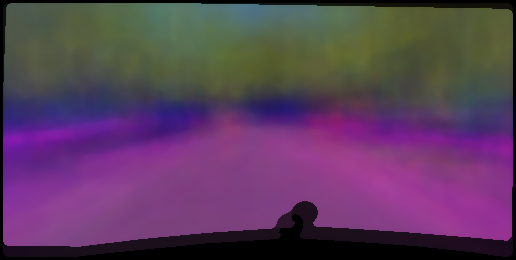
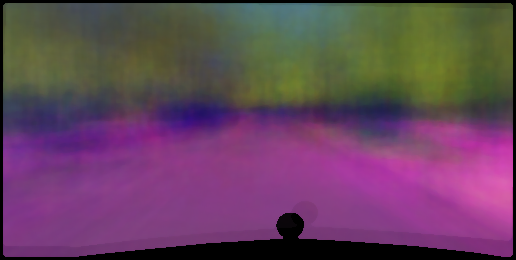
median filter

diff --git a/generate_map.py b/generate_map.py
@@ -39,7 +39,7 @@ def generate_encoding(avg):
 
 def post_processing(img_name):
     img = cv2.imread(img_name)
-    blur = cv2.medianBlur(img, 9)
+    blur = cv2.medianBlur(img, 5)
     cv2.imwrite(img_name, blur)
     return blur
 
